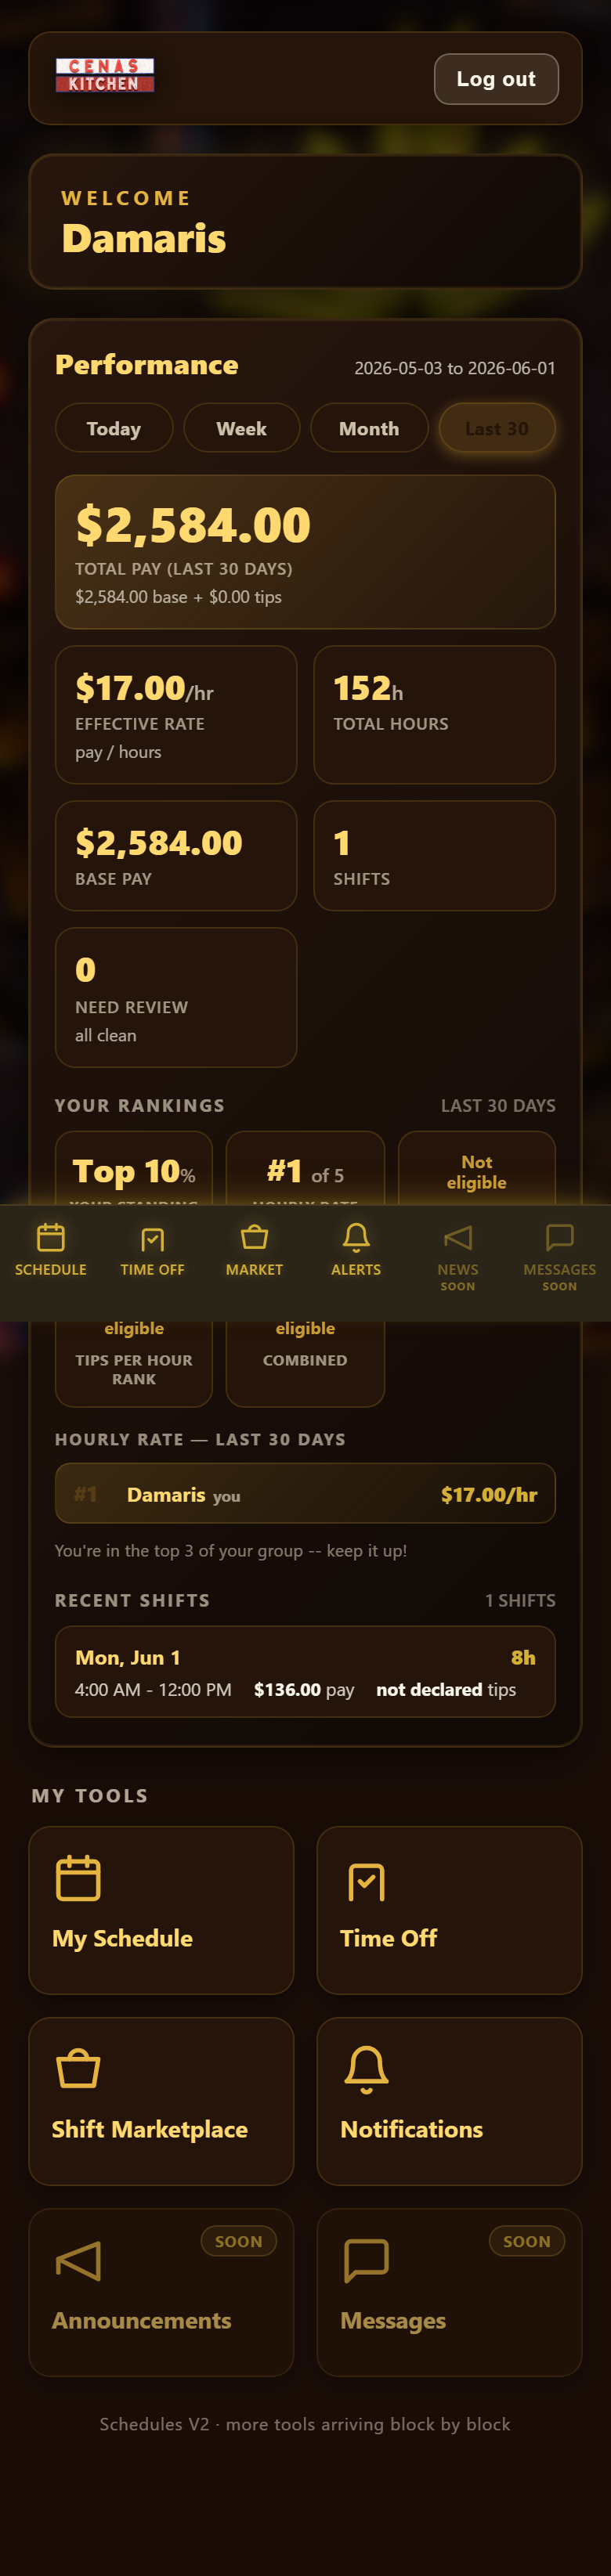
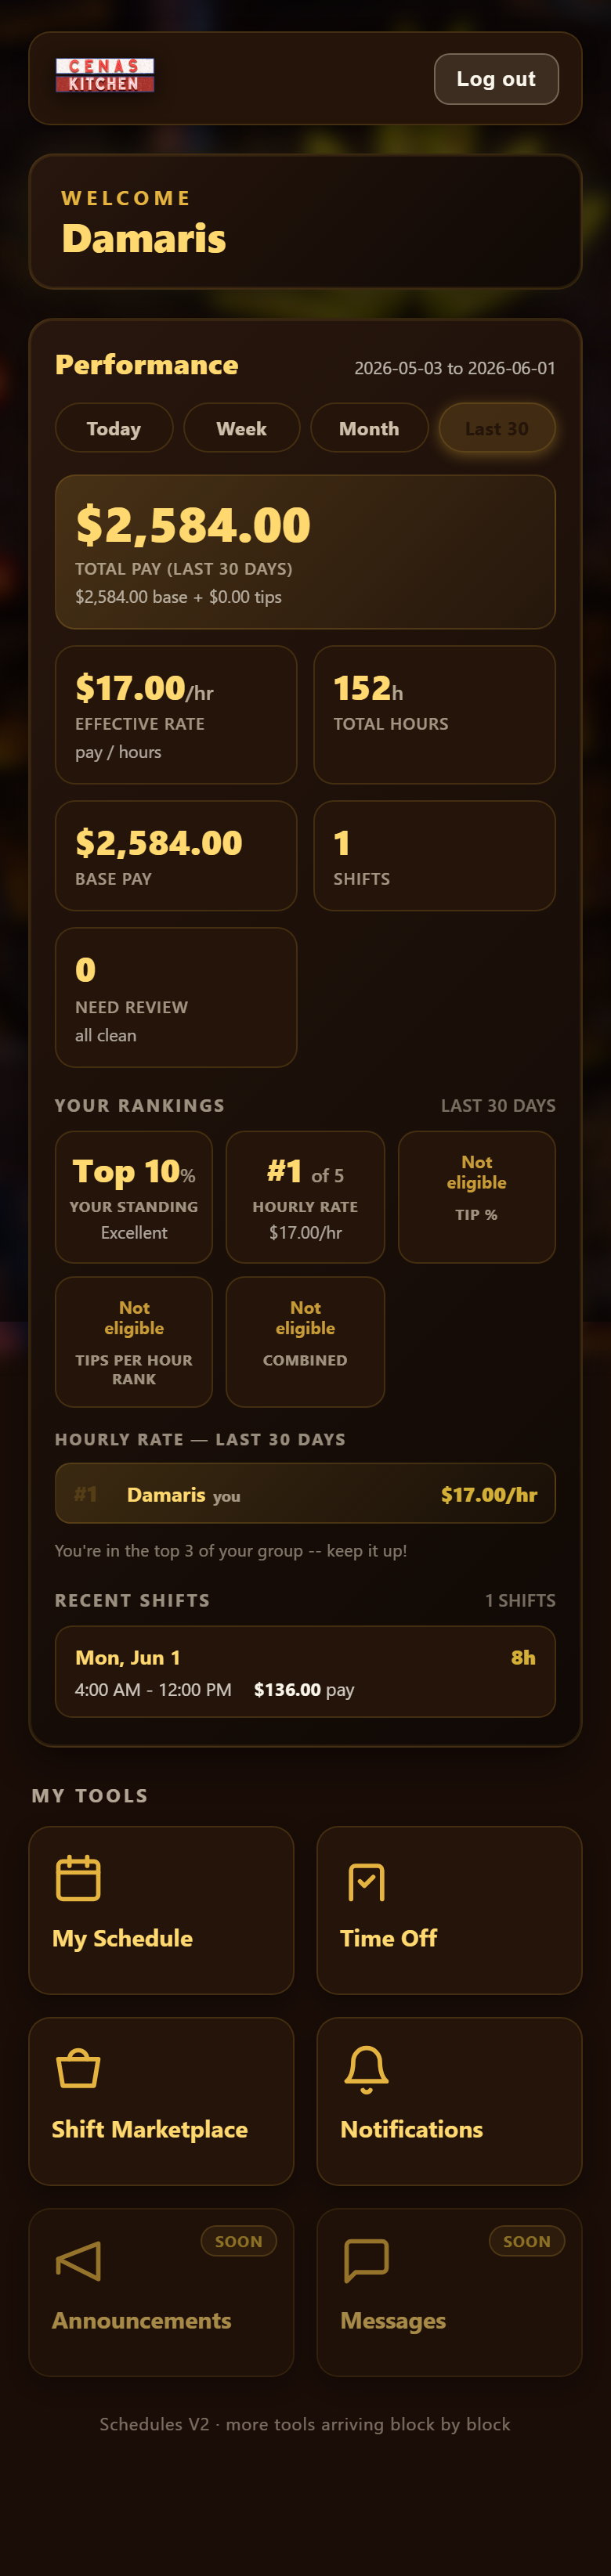
T108 proof addendum (note 4): regen 2 dashboard shots with bottom-nav hidden (no clip) + reflect strict BOH dashboard
t108_screenshots.py: in the dashboard-capture branch, hide nav.ck-enav (the position:fixed bottom
nav from _employee_nav.html) before the full-page screenshot so it no longer overlays bottom content.
- A_tipped_dashboard.png / B_boh_dashboard.png regenerated clean.
- B_boh_dashboard now also reflects the strict BOH /my-performance (post-33407bb): tip-cards=NONE,
  recent-shift row shows "$136.00 pay" with NO "$0.00 tips"; "YOUR RANKINGS" grid fully visible
  (Top 10% / Excellent standing, #1 of 5 hourly-rate, 3 clean 'Not eligible' gate tiles, top-3 nudge).
Proof-only; stripped before merge; not on the deploy path.

Changed region(s): [[0.0, 0.465, 1.0, 0.5271], [0.6769, 0.6511, 0.7385, 0.6821]]

diff --git a/perfdb/t108_screenshots.py b/perfdb/t108_screenshots.py
@@ -396,6 +396,21 @@ def run():
                         out = classify_dashboard(page)
                         desc = out[0]
                         state = "dashboard"
+                        # T108 (samai #3142 note 4): the position:fixed sticky
+                        # bottom-nav (`nav.ck-enav` from partials/_employee_nav.html)
+                        # overlays the bottom content in a full-page static capture,
+                        # clipping "Not eligible" / "Top X%" text. The app is correct
+                        # at real runtime; this is purely a screenshot artifact. Hide
+                        # ONLY that nav for the full-page dashboard shot. (Dashboard
+                        # captures only -- detail captures are left untouched.)
+                        hidden = page.evaluate(
+                            """() => {
+                                const navs = document.querySelectorAll('nav.ck-enav');
+                                navs.forEach(n => { n.style.display = 'none'; });
+                                return navs.length;
+                            }"""
+                        )
+                        desc += "  [hid %d .ck-enav bottom-nav for capture]" % hidden
                     else:
                         # detail: wait until loading is gone AND one terminal state visible
                         try: